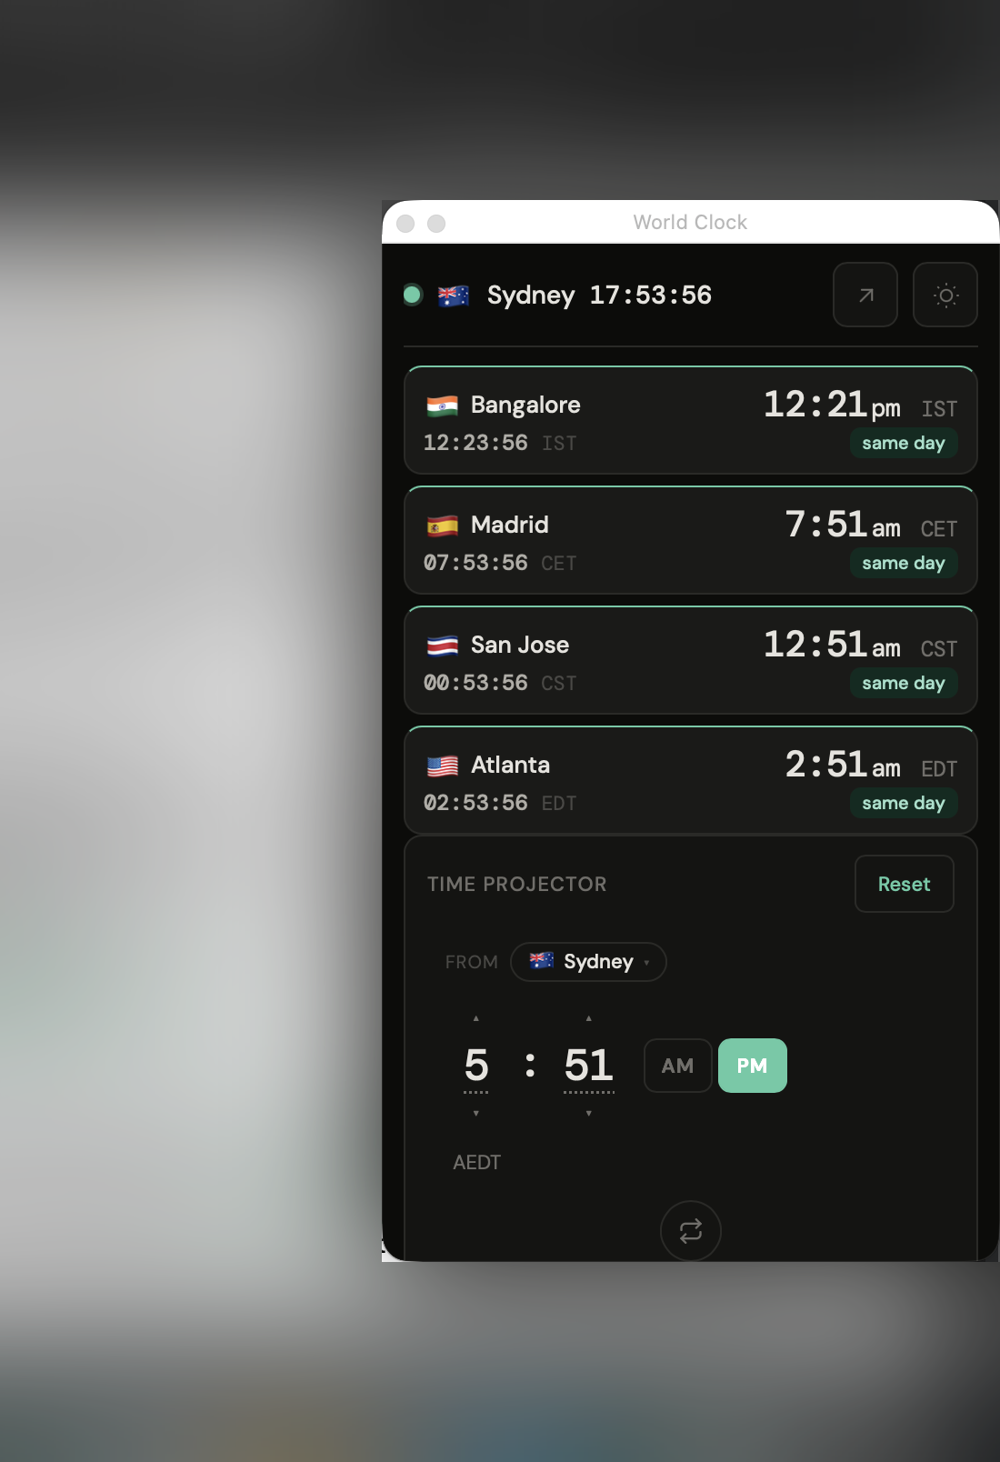
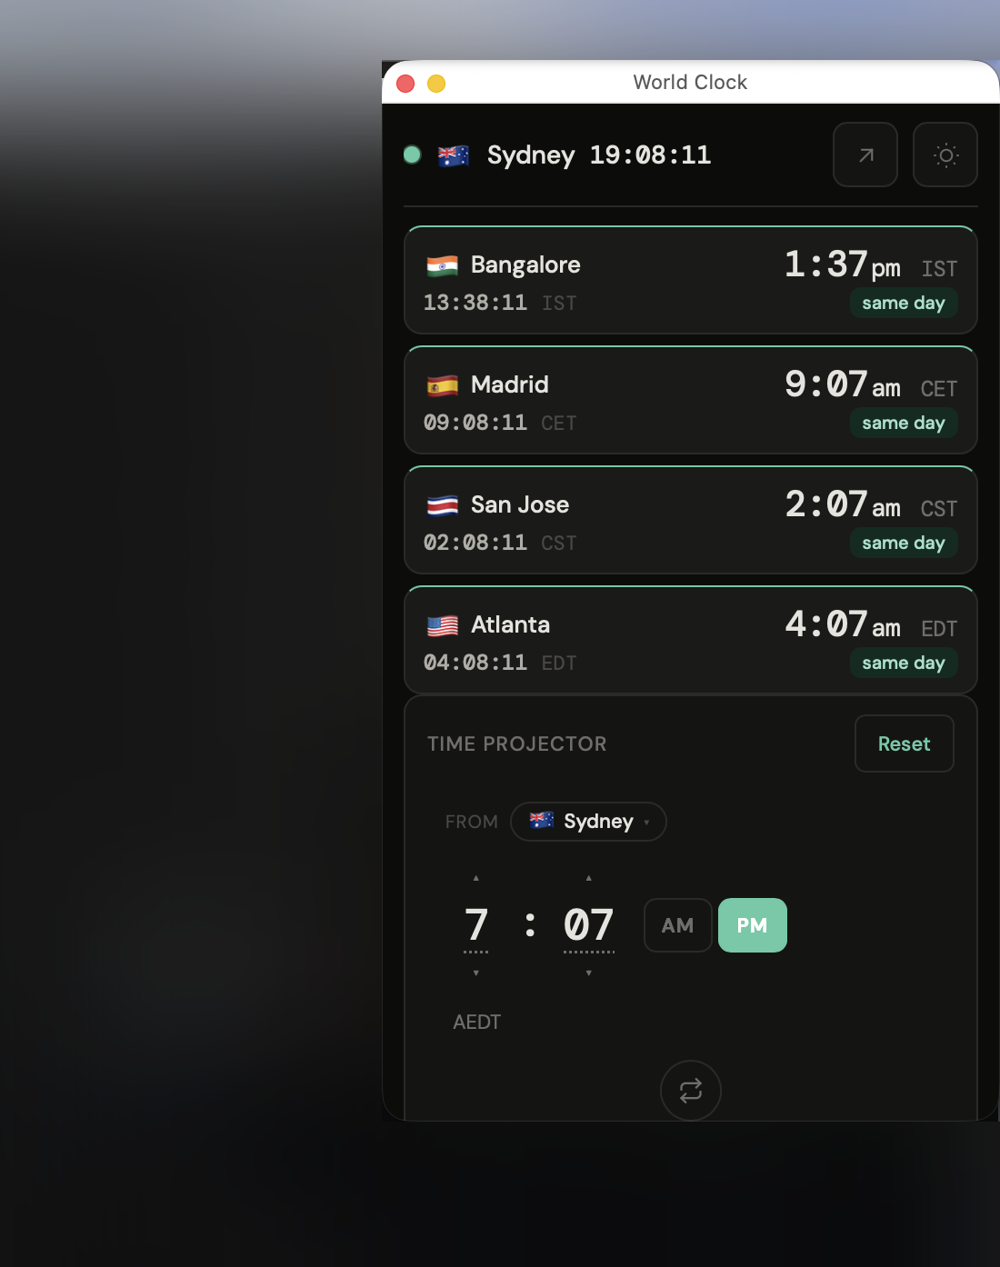
Mac panel: one-time state, scroll to step cities, chevron on the strip
Three states instead of two: panel, strip, and a single flag and time
that tucks against the screen edge. Scrolling over the single time
steps through the other cities, one per trackpad gesture or wheel
notch. The strip gets a down-chevron at its right end that opens the
panel; clicking the times toggles strip and single. The status menu
lists the three states. A saved frame that is absurd for the panel
starts over at 340x560 on launch.

diff --git a/mac/WorldClock.swift b/mac/WorldClock.swift
@@ -1,20 +1,25 @@
 // World Clock for the Mac: a small floating panel that shows the web app's compact view.
 // One file, no dependencies, no Xcode project. Build it with `bash mac/build.sh`.
 //
-// What it does: a panel that floats above every other window on every Space, holding a web view
-// that loads https://www.estebangz.com/world-clock/?mini=1. A clock in the menu bar shows and hides
-// it (left click) or opens its menu (right click). It remembers its position and size, can launch
-// at login, and keeps its own browser storage, so the city list survives a restart and nothing is
-// shared with Safari.
+// A panel floats above every other window on every Space, holding a web view that loads
+// https://www.estebangz.com/world-clock/?mini=1. A clock in the menu bar shows and hides it (left
+// click) or opens its menu (right click). Frame and state survive relaunch, it can launch at login,
+// and its browser storage is its own, so the city list persists and nothing is shared with Safari.
 //
-// Two states. Expanded is the full compact page: cities, projector, typed time. The yellow button
-// collapses it to a strip, 40 points tall, with the home time and the top two cities as flag and
-// time. Click the strip to expand again; drag it to move it. The strip is drawn by a script this
-// app injects into the page, so index.html stays exactly the web version.
+// Three states, smallest last:
+//   panel   the full compact page: cities, projector, typed time
+//   strip   one row, 40 points tall: home plus the top two cities as flag and time, and a chevron
+//   single  one flag and time; scroll over it to step through the other cities
+// The yellow button or a title-bar double-click collapses the panel to the strip. On the strip,
+// the chevron opens the panel and the times go to the single time; on the single time a click goes
+// back to the strip. Strip and single tuck against the nearer side of their screen. They are
+// drawn by a script this app injects into the page, so index.html stays exactly the web version.
 
 import Cocoa
 import WebKit
 import ServiceManagement
+
+enum Mode: Int { case panel, strip, single }
 
 let frameName = "WorldClockPanel"
 let liveURL = "https://www.estebangz.com/world-clock/?mini=1"
@@ -22,11 +27,11 @@ let liveURL = "https://www.estebangz.com/world-clock/?mini=1"
 //   defaults write com.estebangz.worldclock url "http://localhost:8766/?mini=1"
 //   defaults delete com.estebangz.worldclock url      # back to the live site
 let pageURL = URL(string: UserDefaults.standard.string(forKey: "url") ?? liveURL)!
-let expandedSize = NSSize(width: 340, height: 560)
-let stripSize = NSSize(width: 320, height: 40)
+let panelSize = NSSize(width: 340, height: 560)
+let sizes: [Mode: NSSize] = [.strip: NSSize(width: 320, height: 40), .single: NSSize(width: 124, height: 40)]
 
-// Runs inside the page once it has loaded. Builds the strip from the page's own data (home, cities,
-// fmtHMS are globals in index.html) and redraws it every second while the compact class is on.
+// Runs inside the page once it has loaded. Draws the strip and the single time from the page's own
+// data (home, cities and fmtHMS are globals in index.html), redrawing every second.
 let stripScript = """
 (() => {
   const css = document.createElement('style');
@@ -38,19 +43,26 @@ let stripScript = """
       font-family:'DM Mono',ui-monospace,monospace;font-size:14px;font-weight:500;letter-spacing:.01em;color:var(--tx);
       background:var(--bg);white-space:nowrap;-webkit-user-select:none}
     #wc-strip span{display:flex;align-items:center;gap:6px}
-    #wc-strip b{font-weight:400;font-size:16px;line-height:1}`;
+    #wc-strip b{font-weight:400;font-size:16px;line-height:1}
+    #wc-strip .wc-go{color:var(--mu);margin:0 -2px 0 2px}`;
   document.head.appendChild(css);
   const strip = document.createElement('div');
   strip.id = 'wc-strip';
   document.body.appendChild(strip);
+  const chevron = '<svg class="wc-go" width="14" height="14" viewBox="0 0 24 24" fill="none" stroke="currentColor" '
+    + 'stroke-width="2.2" stroke-linecap="round" stroke-linejoin="round"><polyline points="6 9 12 15 18 9"/></svg>';
+  let mode = 0, index = 0;
   const draw = () => {
-    if (!document.body.classList.contains('wc-compact')) return;
+    document.body.classList.toggle('wc-compact', mode > 0);
+    if (!mode) return;
+    const all = [{f: home.flag, t: home.tz}].concat(cities.map(c => ({f: c.f, t: c.t})));
+    const shown = mode === 1 ? all.slice(0, 3) : [all[((index % all.length) + all.length) % all.length]];
     const now = new Date();
-    const items = [{f: home.flag, t: home.tz}].concat(cities.slice(0, 2).map(c => ({f: c.f, t: c.t})));
-    strip.innerHTML = items.map(i => `<span><b>${i.f}</b>${fmtHMS(now, i.t).slice(0, 5)}</span>`).join('');
+    strip.innerHTML = shown.map(i => `<span><b>${i.f}</b>${fmtHMS(now, i.t).slice(0, 5)}</span>`).join('')
+      + (mode === 1 ? chevron : '');
   };
   setInterval(draw, 1000);
-  window.wcCompact = on => { document.body.classList.toggle('wc-compact', on); draw(); };
+  window.wcState = (m, i) => { mode = m; index = i; draw(); };
 })();
 """
 
@@ -68,27 +80,46 @@ final class ClockPanel: NSPanel {
     override func zoom(_ sender: Any?) { onMinimize?() }
 }
 
-/// Covers the web view while collapsed: a drag moves the panel, a plain click expands it.
+/// Covers the web view while collapsed. Drag moves the panel; a click on the right end (the
+/// chevron) opens the panel, a click elsewhere toggles strip and single; a scroll steps cities.
 final class StripView: NSView {
-    var onClick: (() -> Void)?
-    private var dragged = false
+    var onClick: (() -> Void)?, onChevron: (() -> Void)?, onStep: ((Int) -> Void)?
+    var chevronWidth: CGFloat = 0
+    private var dragged = false, stepped = false, travel: CGFloat = 0
     override func mouseDown(with event: NSEvent) { dragged = false }
     override func mouseDragged(with event: NSEvent) {
         if !dragged { dragged = true; window?.performDrag(with: event) }
     }
-    override func mouseUp(with event: NSEvent) { if !dragged { onClick?() } }
-    override func accessibilityPerformPress() -> Bool { onClick?(); return true }   // VoiceOver: one button
+    override func mouseUp(with event: NSEvent) {
+        guard !dragged else { return }
+        if convert(event.locationInWindow, from: nil).x > bounds.width - chevronWidth { onChevron?() } else { onClick?() }
+    }
+    /// One step per trackpad gesture (after a little travel, momentum ignored) or per wheel notch.
+    override func scrollWheel(with event: NSEvent) {
+        if event.phase == .began { travel = 0; stepped = false }
+        if event.momentumPhase != [] { return }
+        travel += event.scrollingDeltaY
+        let wheelNotch = event.phase == [] && event.momentumPhase == []
+        if wheelNotch || (!stepped && abs(travel) > 24) {
+            onStep?(travel < 0 ? 1 : -1)
+            stepped = true
+            travel = 0
+        }
+    }
+    override func resetCursorRects() { addCursorRect(bounds, cursor: .pointingHand) }
+    override func accessibilityPerformPress() -> Bool { onClick?(); return true }
 }
 
 @MainActor
 final class App: NSObject, NSApplicationDelegate, NSWindowDelegate, WKNavigationDelegate, WKUIDelegate {
-    let panel = ClockPanel(contentRect: NSRect(origin: .zero, size: expandedSize),
+    let panel = ClockPanel(contentRect: NSRect(origin: .zero, size: panelSize),
                            styleMask: [.titled, .closable, .miniaturizable, .resizable, .utilityWindow, .nonactivatingPanel],
                            backing: .buffered, defer: false)
     let statusItem = NSStatusBar.system.statusItem(withLength: NSStatusItem.squareLength)
     let strip = StripView()
     var webView: WKWebView!
-    var compact = false
+    var mode = Mode.panel
+    var cityIndex = 0
 
     func applicationDidFinishLaunching(_ note: Notification) {
         panel.title = "World Clock"
@@ -99,10 +130,11 @@ final class App: NSObject, NSApplicationDelegate, NSWindowDelegate, WKNavigation
         panel.backgroundColor = NSColor(red: 0.047, green: 0.047, blue: 0.039, alpha: 1) // the page's dark paper
         panel.standardWindowButton(.zoomButton)?.isHidden = true
         panel.delegate = self
-        panel.onMinimize = { [unowned self] in setCompact(true) }
+        panel.onMinimize = { [unowned self] in setMode(.strip) }
         if !panel.setFrameUsingName(frameName) { panel.center() }   // restore last frame, else centre
         _ = panel.setFrameAutosaveName(frameName)                   // keep saving it (this re-applies it too)
-        if panel.frame.width > 800 || panel.frame.height > 1200 { panel.setContentSize(expandedSize) }
+        let f = panel.frame   // a saved frame that is absurd for the panel (zoomed, or a strip's) starts over
+        if f.width > 800 || f.height > 1200 || f.height < 380 { panel.setContentSize(panelSize) }
 
         let config = WKWebViewConfiguration()
         config.websiteDataStore = .default()   // this app's own storage, persistent, separate from Safari
@@ -117,10 +149,12 @@ final class App: NSObject, NSApplicationDelegate, NSWindowDelegate, WKNavigation
 
         strip.frame = panel.contentView!.bounds
         strip.autoresizingMask = [.width, .height]
-        strip.onClick = { [unowned self] in setCompact(false) }
+        strip.onClick = { [unowned self] in setMode(mode == .strip ? .single : .strip) }
+        strip.onChevron = { [unowned self] in setMode(.panel) }
+        strip.onStep = { [unowned self] d in cityIndex += d; syncPage() }
         strip.setAccessibilityElement(true)
         strip.setAccessibilityRole(.button)
-        strip.setAccessibilityLabel("Expand World Clock")
+        strip.setAccessibilityLabel("World Clock strip")
         panel.contentView!.addSubview(strip)
 
         let button = statusItem.button!
@@ -129,43 +163,48 @@ final class App: NSObject, NSApplicationDelegate, NSWindowDelegate, WKNavigation
         button.action = #selector(statusClicked)
         _ = button.sendAction(on: [.leftMouseUp, .rightMouseUp])
 
-        // Quit while collapsed, come back collapsed. Expanded keeps the frame restored above.
-        if UserDefaults.standard.bool(forKey: "compact") { setCompact(true, atLaunch: true) }
+        // Quit collapsed, come back collapsed. The panel keeps the frame restored above.
+        if let m = Mode(rawValue: UserDefaults.standard.integer(forKey: "mode")), m != .panel { setMode(m, atLaunch: true) }
         panel.orderFrontRegardless()
     }
 
-    // MARK: Expanded and collapsed
+    // MARK: States
 
-    func setCompact(_ on: Bool, atLaunch: Bool = false) {
+    func syncPage() { webView.evaluateJavaScript("window.wcState && wcState(\(mode.rawValue), \(cityIndex))") }
+
+    func setMode(_ m: Mode, atLaunch: Bool = false) {
         // Read the geometry first; the style changes below can nudge the frame.
         let screen = panel.screen ?? NSScreen.main
         let visible = screen?.visibleFrame ?? panel.frame
         let rightSide = panel.frame.midX > visible.midX   // which side of its screen the panel lives on
         let top = panel.frame.maxY
-        if on, !compact, !atLaunch { UserDefaults.standard.set(NSStringFromRect(panel.frame), forKey: "expandedFrame") }
-        compact = on
-        UserDefaults.standard.set(on, forKey: "compact")
-        panel.titleVisibility = on ? .hidden : .visible
-        panel.titlebarAppearsTransparent = on
-        if on { panel.styleMask.insert(.fullSizeContentView) } else { panel.styleMask.remove(.fullSizeContentView) }
-        for kind: NSWindow.ButtonType in [.closeButton, .miniaturizeButton] { panel.standardWindowButton(kind)?.isHidden = on }
-        panel.minSize = on ? NSSize(width: 240, height: stripSize.height) : NSSize(width: 280, height: 380)
-        panel.maxSize = on ? NSSize(width: 600, height: stripSize.height) : NSSize(width: 4000, height: 4000)
-        strip.isHidden = !on
-        webView.evaluateJavaScript("window.wcCompact && wcCompact(\(on))")
-
-        // The strip tucks against the nearer side of the screen it is on, at the same height. The
-        // panel opens back from that side, so a strip on the right expands leftwards.
-        var size = stripSize
-        if !on {
-            let saved = UserDefaults.standard.string(forKey: "expandedFrame").map(NSRectFromString)?.size ?? expandedSize
+        if mode == .panel, m != .panel, !atLaunch { UserDefaults.standard.set(NSStringFromRect(panel.frame), forKey: "expandedFrame") }
+        if m == .single, mode != .single { cityIndex = 0 }   // the single time starts on home
+        mode = m
+        UserDefaults.standard.set(m.rawValue, forKey: "mode")
+        let full = m == .panel
+        panel.titleVisibility = full ? .visible : .hidden
+        panel.titlebarAppearsTransparent = !full
+        if full { panel.styleMask.remove(.fullSizeContentView) } else { panel.styleMask.insert(.fullSizeContentView) }
+        for kind: NSWindow.ButtonType in [.closeButton, .miniaturizeButton] { panel.standardWindowButton(kind)?.isHidden = !full }
+        strip.isHidden = full
+        strip.chevronWidth = m == .strip ? 36 : 0
+        var size = sizes[m] ?? panelSize
+        if full {
+            let saved = UserDefaults.standard.string(forKey: "expandedFrame").map(NSRectFromString)?.size ?? panelSize
             size = NSSize(width: min(max(saved.width, 280), 800), height: min(max(saved.height, 380), 1200))
         }
+        panel.minSize = full ? NSSize(width: 280, height: 380) : size
+        panel.maxSize = full ? NSSize(width: 4000, height: 4000) : NSSize(width: 600, height: size.height)
+        syncPage()
+
+        // Strip and single tuck against the nearer side of the screen, at the same height. The
+        // panel opens back from that side, so a strip on the right expands leftwards.
         var frame = NSRect(x: 0, y: top - size.height, width: size.width, height: size.height)
-        if on {
-            frame.origin.x = rightSide ? visible.maxX - size.width : visible.minX
-        } else {
+        if full {
             frame.origin.x = rightSide ? panel.frame.maxX - size.width : panel.frame.minX
+        } else {
+            frame.origin.x = rightSide ? visible.maxX - size.width : visible.minX
         }
         if let screen { frame = panel.constrainFrameRect(frame, to: screen) }
         panel.setFrame(frame, display: true, animate: !atLaunch)
@@ -182,15 +221,20 @@ final class App: NSObject, NSApplicationDelegate, NSWindowDelegate, WKNavigation
         if panel.isVisible { panel.orderOut(nil) } else { panel.makeKeyAndOrderFront(nil) }
     }
 
-    @objc func toggleCompact() { setCompact(!compact); panel.makeKeyAndOrderFront(nil) }
+    @objc func pickMode(_ sender: NSMenuItem) { setMode(Mode(rawValue: sender.tag)!); panel.makeKeyAndOrderFront(nil) }
 
     func showMenu() {
         let menu = NSMenu()
         menu.addItem(withTitle: panel.isVisible ? "Hide World Clock" : "Show World Clock", action: #selector(toggle), keyEquivalent: "")
-        menu.addItem(withTitle: compact ? "Expand" : "Collapse to Strip", action: #selector(toggleCompact), keyEquivalent: "")
+        menu.addItem(.separator())
+        for (title, m) in [("Full Panel", Mode.panel), ("Strip", .strip), ("One Time", .single)] {
+            let item = menu.addItem(withTitle: title, action: #selector(pickMode), keyEquivalent: "")
+            item.tag = m.rawValue
+            item.state = m == mode ? .on : .off
+        }
+        menu.addItem(.separator())
         menu.addItem(withTitle: "Reload", action: #selector(reload), keyEquivalent: "")
         menu.addItem(withTitle: "Open Full Page in Browser", action: #selector(openInBrowser), keyEquivalent: "")
-        menu.addItem(.separator())
         let login = menu.addItem(withTitle: "Launch at Login", action: #selector(toggleLaunchAtLogin), keyEquivalent: "")
         login.state = SMAppService.mainApp.status == .enabled ? .on : .off
         menu.addItem(.separator())
@@ -218,7 +262,7 @@ final class App: NSObject, NSApplicationDelegate, NSWindowDelegate, WKNavigation
         }
     }
 
-    // MARK: Window
+    // MARK: Window and web view
 
     /// The close button only hides the panel; the menu bar clock brings it back. Quit is in the menu.
     func windowShouldClose(_ sender: NSWindow) -> Bool {
@@ -226,12 +270,8 @@ final class App: NSObject, NSApplicationDelegate, NSWindowDelegate, WKNavigation
         return false
     }
 
-    // MARK: Web view
-
     /// After every load (first launch, Reload), put the page in whichever state the panel is in.
-    func webView(_ webView: WKWebView, didFinish navigation: WKNavigation!) {
-        webView.evaluateJavaScript("window.wcCompact && wcCompact(\(compact))")
-    }
+    func webView(_ webView: WKWebView, didFinish navigation: WKNavigation!) { syncPage() }
 
     /// Clicked links (the arrow to the full page, anything external) open in the default browser;
     /// the panel itself only ever shows the World Clock.

diff --git a/mac/README.md b/mac/README.md
@@ -5,15 +5,19 @@ web app's compact view (`?mini=1`) inside a native window, so it is always the s
 site: the city list, the time projector and the typed time all work exactly as they do in the
 browser, and the city list is kept inside the app between launches.
 
-Two states:
+Three states, smallest last:
 
-- **Expanded.** The full compact page, 340 by 560 by default, resizable.
-- **Strip.** One row, 40 points tall: your home time and the top two cities, flag and time. It
-  tucks against the nearer side of whichever screen it is on.
+- **Panel.** The full compact page, 340 by 560 by default, resizable.
+- **Strip.** One row, 40 points tall: your home time and the top two cities, flag and time, with
+  a chevron at the right end. It tucks against the nearer side of whichever screen it is on.
+- **One time.** A single flag and time, your home city to start. Scroll over it (trackpad or
+  mouse wheel) to step through your other cities, one per swipe or notch.
 
-The yellow button (or a double-click on the title bar) collapses to the strip. Click the strip to
-expand again; drag it to move it. The red button hides the panel; the clock in the menu bar brings
-it back. Quit is in the menu bar clock's right-click menu.
+Moving between them: the yellow button (or a double-click on the title bar) collapses the panel to
+the strip. On the strip, the chevron opens the panel and a click on the times goes to the one
+time. On the one time, a click goes back to the strip. Drag either to move it. The red button
+hides the panel; the clock in the menu bar brings it back, and its right-click menu can jump to
+any of the three states. Quit is in that menu too.
 
 ## Build
 
